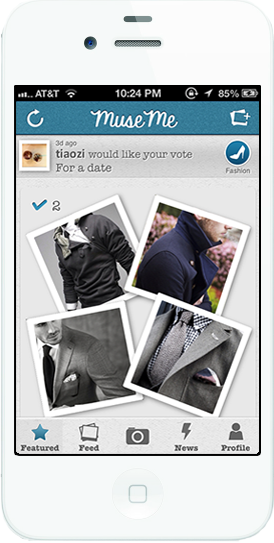
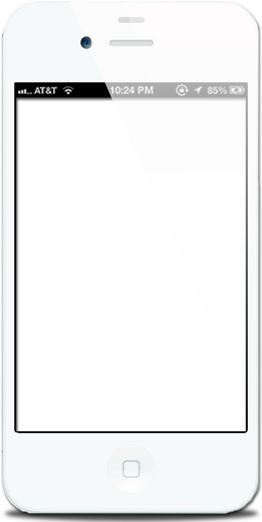
phone mask

diff --git a/app/assets/stylesheets/page.css b/app/assets/stylesheets/page.css
@@ -41,13 +41,21 @@ h2{
 img{
 	width:100%;
 }
+.btn{
+	-webkit-box-shadow: rgba(255,255,255,0.4) 0 1px 0, inset rgba(255,255,255,0.4) 0 1px 0;
+   -moz-box-shadow: rgba(255,255,255,0.4) 0 1px 0, inset rgba(255,255,255,0.4) 0 1px 0;
+   box-shadow: rgba(255,255,255,0.4) 0 1px 0, inset rgba(255,255,255,0.4) 0 1px 0;
+}
 .container{
 	width:980px;
 }
 .btn.btn-big,h3,.modal label,.modal input{
   font-size:16px;
   line-height:20px;
-  font-weight: bold;
+  font-weight:normal;
+}
+.btn.btn-big{
+  font-weight:bold;
 }
 /*.btn,.btn-group>.btn:first-child,.btn-group>.btn:last-child{
 	border-radius:0px;
@@ -55,7 +63,7 @@ img{
 	-moz-border-radius:0px;
 }*/
 .btn.btn-big{
-  padding:17px;
+  padding:15px;
 }
 .icon{
 	height:20px;
@@ -67,25 +75,27 @@ img{
 	height:25px;
 }
 .green-btn{
-  background-color:rgb(168,216,128);
+   background-color:rgb(165,224,110);
   /*background-image:none;*/
-  background-image: linear-gradient(bottom, rgb(44,89,5) 0%, rgb(132,191,80) 100%);
-  background-image: -o-linear-gradient(bottom, rgb(44,89,5) 0%, rgb(132,191,80) 100%);
-  background-image: -moz-linear-gradient(bottom, rgb(44,89,5) 0%, rgb(132,191,80) 100%);
-  background-image: -webkit-linear-gradient(bottom, rgb(44,89,5) 0%, rgb(132,191,80) 100%);
-  background-image: -ms-linear-gradient(bottom, rgb(44,89,5) 0%, rgb(132,191,80) 100%);
+	background-image: linear-gradient(bottom, rgb(54,115,0) 0%, rgb(165,224,110) 100%);
+	background-image: -o-linear-gradient(bottom, rgb(54,115,0) 0%, rgb(165,224,110) 100%);
+	background-image: -moz-linear-gradient(bottom, rgb(54,115,0) 0%, rgb(165,224,110) 100%);
+	background-image: -webkit-linear-gradient(bottom, rgb(54,115,0) 0%, rgb(165,224,110) 100%);
+	background-image: -ms-linear-gradient(bottom, rgb(54,115,0) 0%, rgb(165,224,110) 100%);
 
-  background-image: -webkit-gradient(
-	linear,
-	left bottom,
-	left top,
-	color-stop(0, rgb(44,89,5)),
-	color-stop(1, rgb(132,191,80))
-  );
-  border:1px solid #333;
+	background-image: -webkit-gradient(
+		linear,
+		left bottom,
+		left top,
+		color-stop(0, rgb(54,115,0)),
+		color-stop(1, rgb(165,224,110))
+	);
+  border:1px solid #2a4f07;
+  color:#2a4f07;
 }
-.btn.btn-big.green-btn:hover{
-	background-color:none;
+.btn.green-btn:hover{
+  background-color:rgb(54,115,0);
+  color:#2a4f07;
 }
 .error{
 	color:#b94a48;
@@ -229,12 +239,12 @@ section.content-container{
 	background-size: cover;
 	height: 430px;
 }
-#featured-section .sign-up-btn{
+/*#featured-section .sign-up-btn{
   position: absolute;
   left:174px;
   bottom:-28px;
 
-}
+}*/
 #carousel{
 	display: inline-block;
 }
@@ -261,6 +271,16 @@ section.content-container{
 }
 #slogan .ribbon a h1:hover{
   color:#7ea859;
+}
+#features-section article h3{
+	margin-bottom: 10px;
+	font-family: 'Helvetica';
+}
+#features-section article{
+	padding-top:50px;
+}
+article.center{
+	text-align: center;
 }
 #features-section img{
 	width:200px;
@@ -295,7 +315,7 @@ section.content-container{
     margin:0 0 0 auto;
 }
 #features-section .row-fluid{
-	padding:50px 0;
+	padding:25px 0 50px 0;
 }
 #featured-polls-section .row-fluid{
 	padding:30px 0;
@@ -311,25 +331,31 @@ section.content-container{
 	-moz-box-shadow:0px 1px 3px 0px rgba(255,255,255,0.4);
 }
 #app-demo-container{
-	background: url('/images/app-demo/iphone.png') no-repeat;
+	/*background: url('/images/app-demo/iphone.png') no-repeat;
 	-webkit-background-size: cover;
 	-moz-background-size: cover;
 	-o-background-size: cover;
-	background-size: cover;
-	height:515px;
-	width:260px;
+	background-size: cover;*/
+	height:522px;
+	width:262px;
 	position:absolute;
 	right:476px;
 	top:0px;
 }
 #app-demo{
 	padding-top:82px; 
-	padding-left:15px;
+	padding-left:14px;
 }
 #app-demo .slider-wrapper{
 	height:349px;
 	width:232px;
 	/*background-color: rgba(220,0,0,0.5);*/
+}
+#iphone-mask{
+	z-index: 10;
+	position: absolute;
+	top: 0;
+	left: 0;
 }
 
 /* general home page css starts */

diff --git a/app/assets/stylesheets/nivo-slider.css b/app/assets/stylesheets/nivo-slider.css
@@ -91,7 +91,7 @@
 .nivo-directionNav a {
 	position:absolute;
 	top:45%;
-	z-index:9;
+	z-index:15;
 	cursor:pointer;
 }
 .nivo-prevNav {
@@ -107,6 +107,8 @@
 }
 .nivo-controlNav a {
 	cursor:pointer;
+	z-index: 15;
+	position: relative;
 }
 .nivo-controlNav a.active {
 	font-weight:bold;
